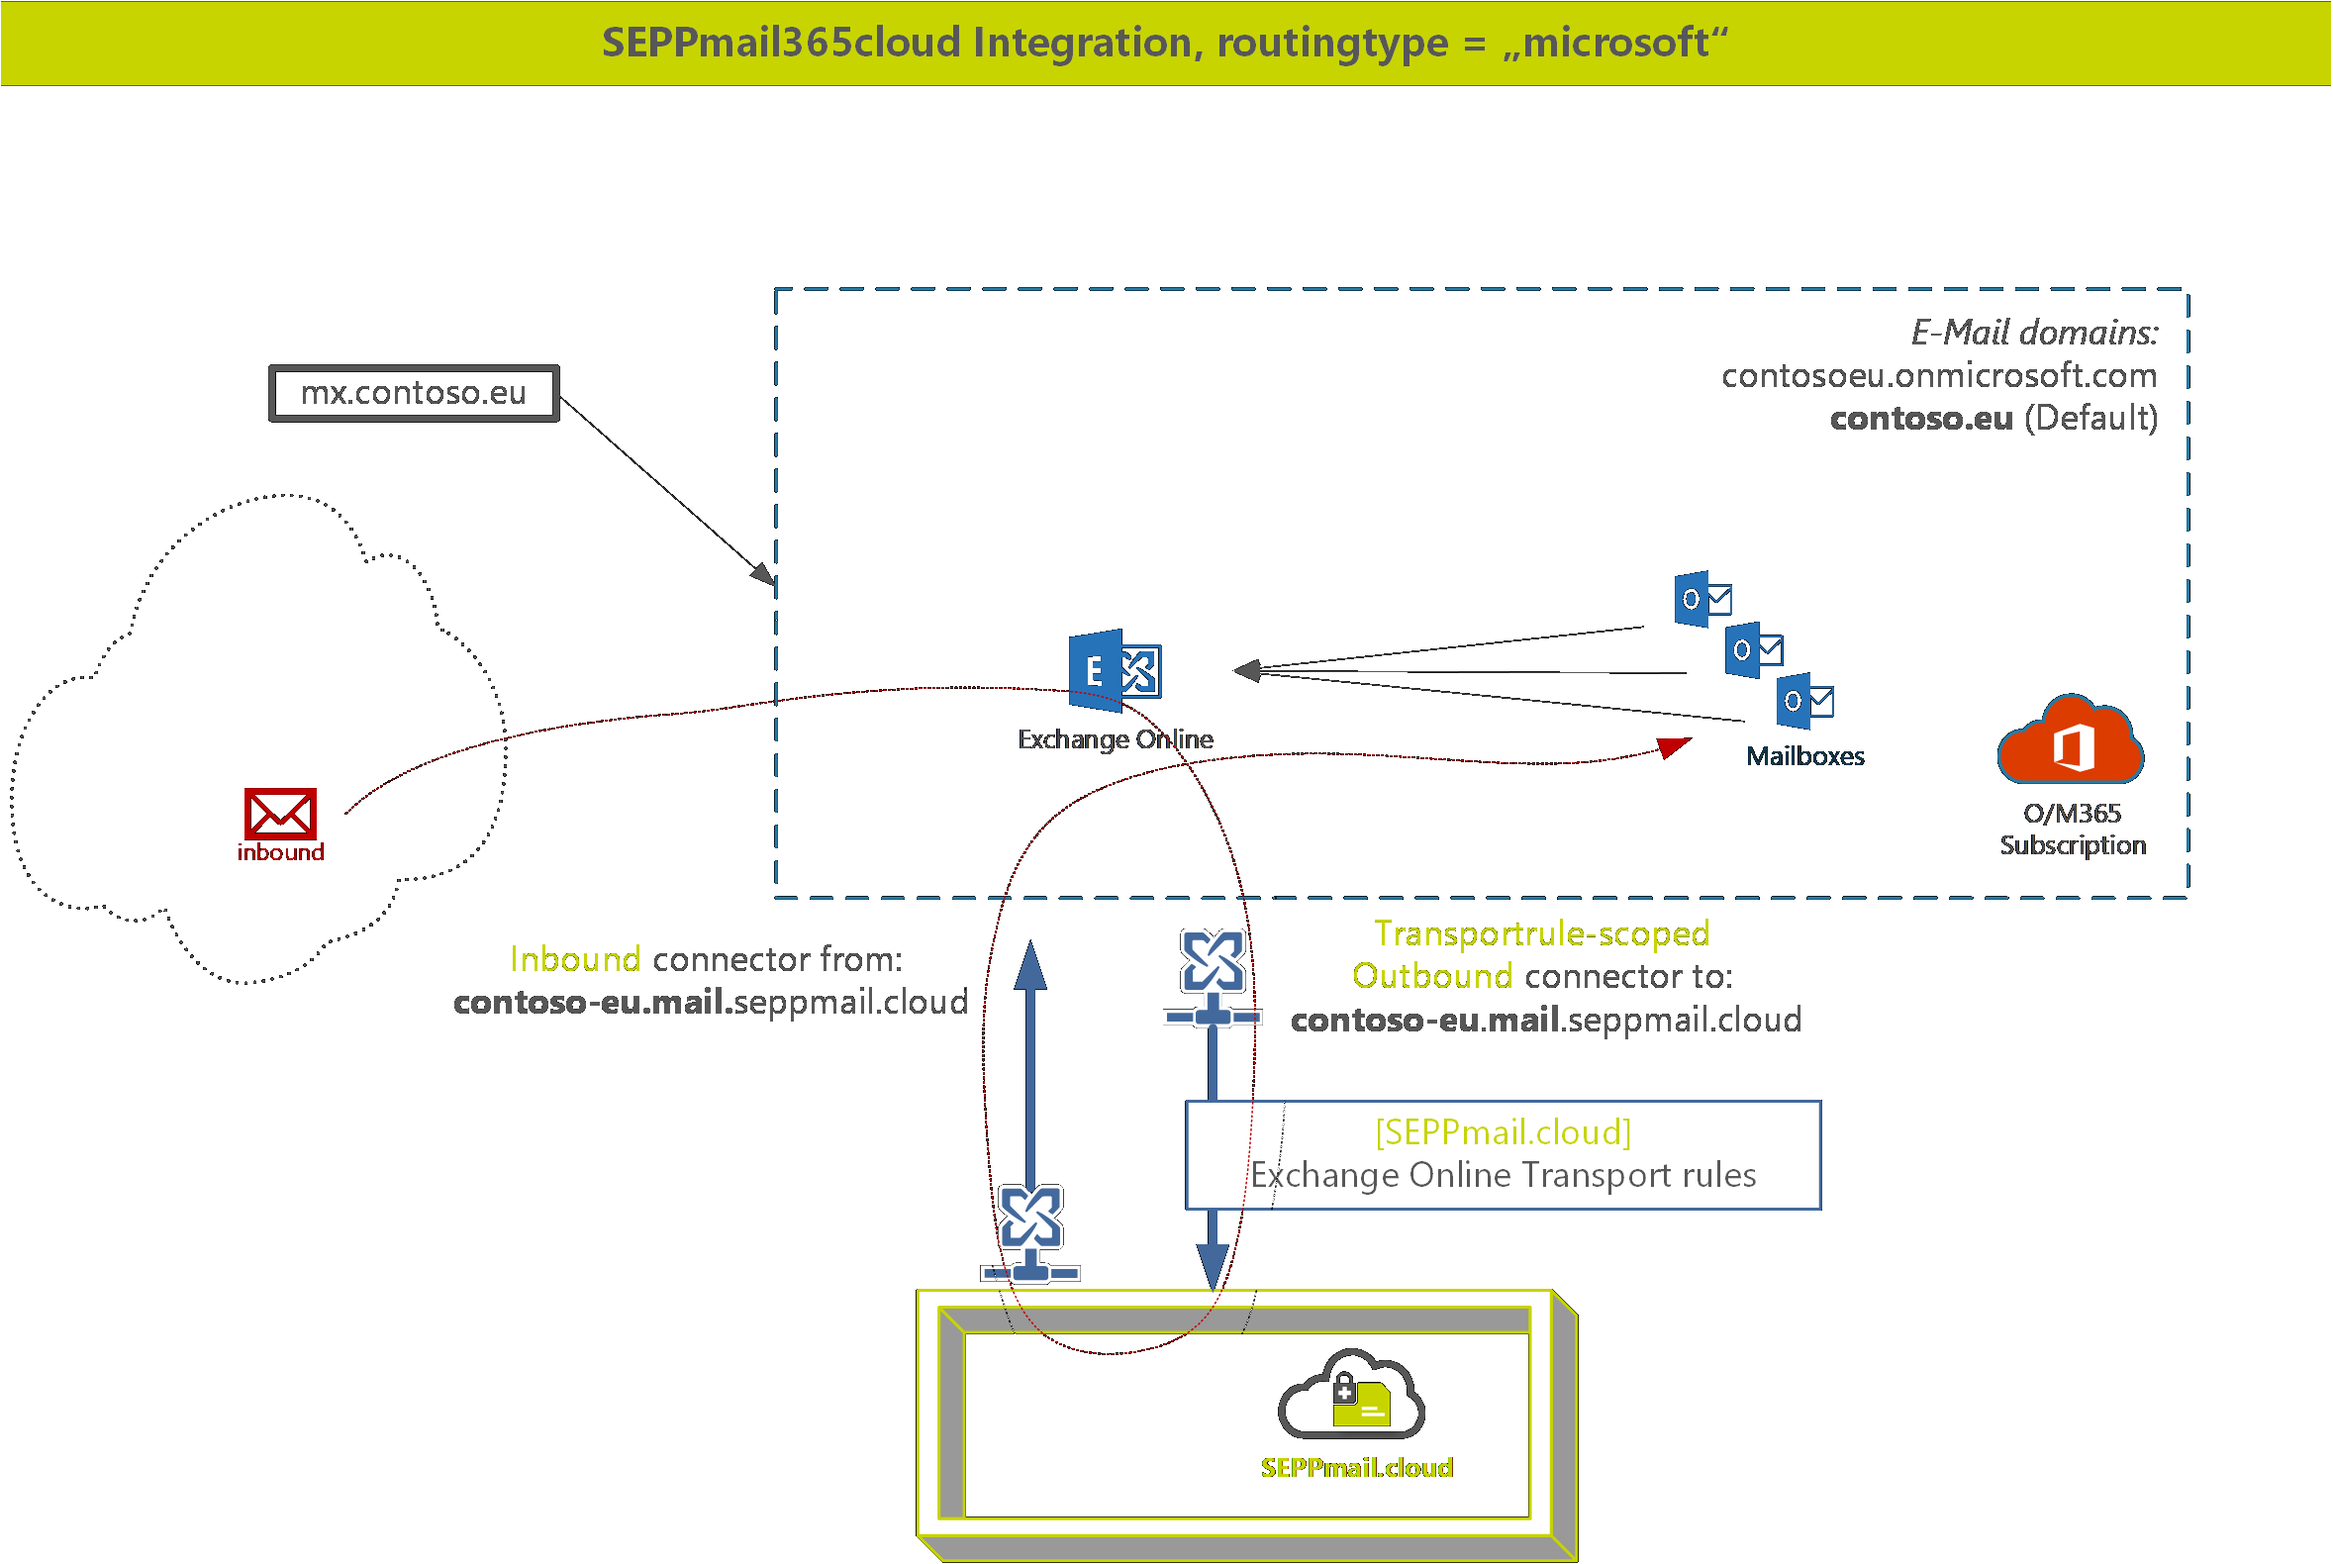
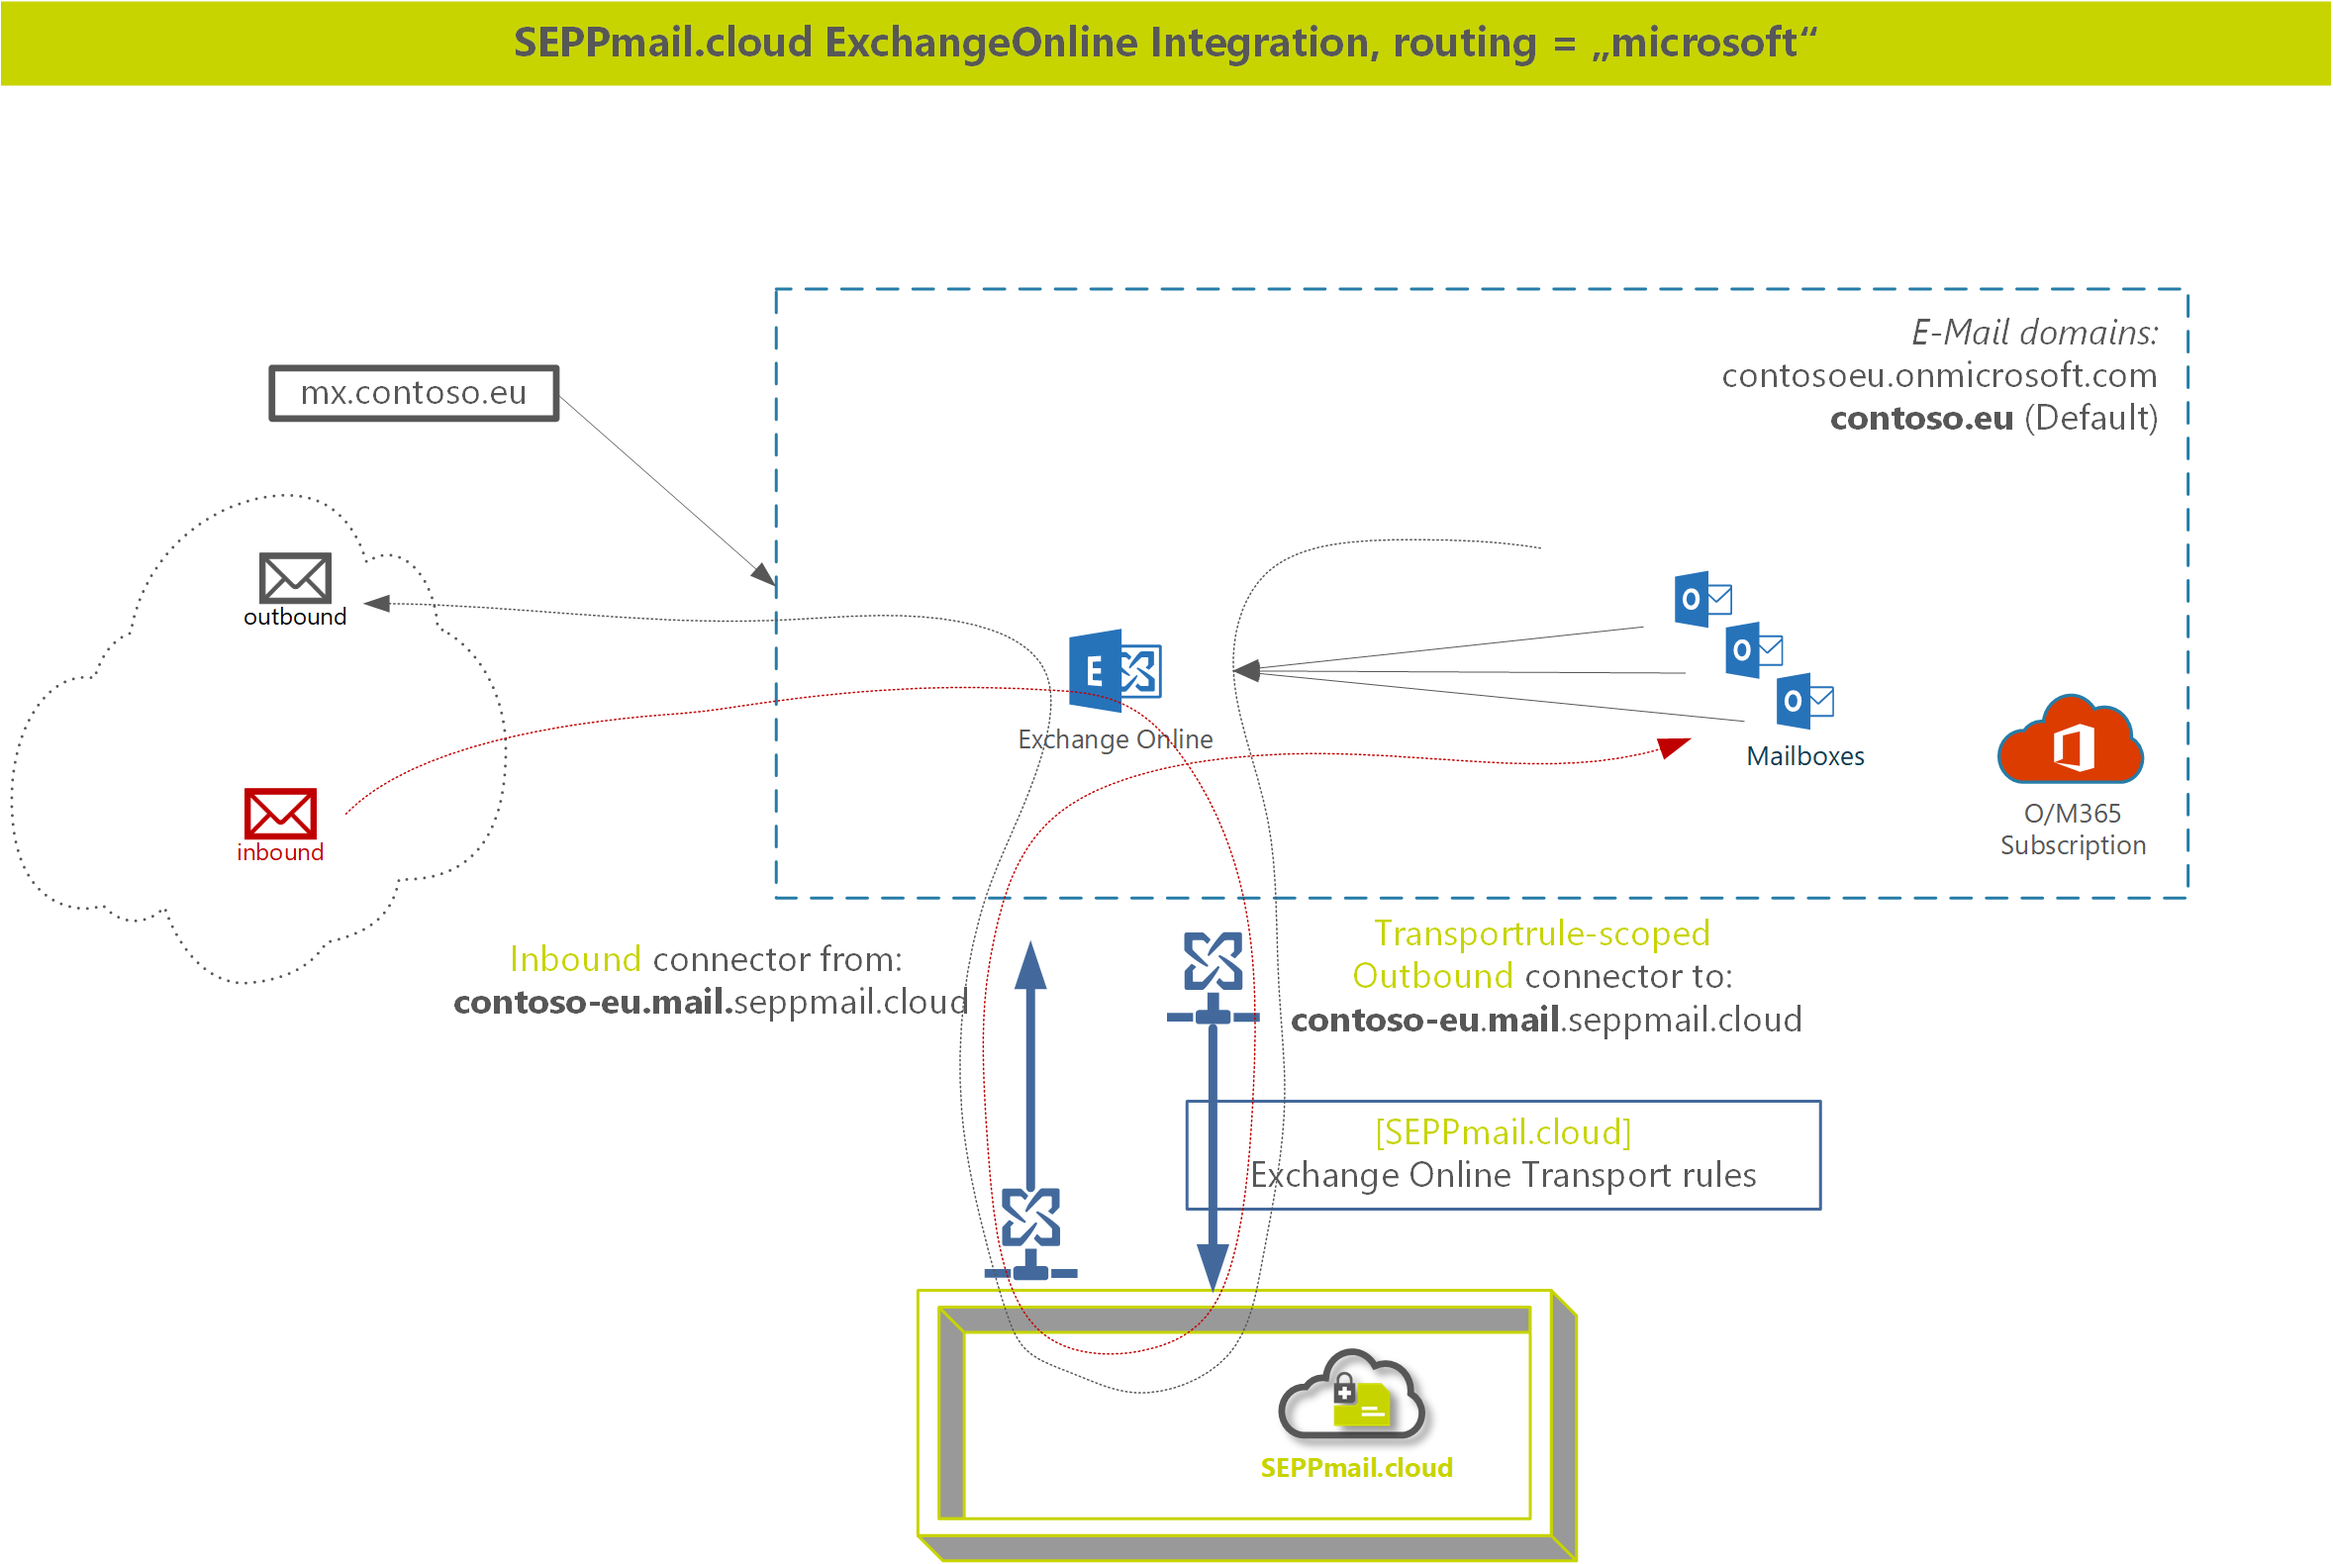
0.8.1 RC

diff --git a/README.md b/README.md
@@ -1,5 +1,6 @@
 - [The SEPPmail365cloud PowerShell Module README.MD](#the-seppmail365cloud-powershell-module-readmemd)
   - [Introduction](#introduction)
+  - [Latest Changes](#latest-changes)
   - [Prerequisites](#prerequisites)
   - [Security](#security)
   - [Module Installation](#module-installation)
@@ -15,13 +16,18 @@
     - [Routingtype: seppmail](#routingtype-seppmail)
     - [Routingtype: microsoft](#routingtype-microsoft)
   - [Review the changes](#review-the-changes)
+  - [Test your Mailflow](#test-your-mailflow)
 
 # The SEPPmail365cloud PowerShell Module README.MD
 
 ## Introduction
 
-The SEPPmail365cloud PowerShell module is a multi-platform PowerShell module, intended to integrate Exchange Online into the seppmail.cloud.
+The SEPPmail365cloud PowerShell module is a multi-platform PowerShell module, intended to integrate Exchange Online into the SEPPmail.cloud.
 The module requires you to connect to your Exchange Online environment and creates all necessary connectors and rules, based on the mail-routing type and region.
+
+## Latest Changes
+
+Changes in the module versions are documented in ![CHANGELOG.md](./CHANGELOG.md)
 
 ## Prerequisites
 
@@ -29,7 +35,7 @@ The module requires *PowerShell Core*, mimimum version 7.2.1 and was tested on W
 
 PowerShell Core on Linux should work as well, but has not been intensively tested so far.
 
->Note: *Windows PowerShell is not supported!*. To run the module from Windows, install PowerShell Core on your Windows machine, using the Microsoft Store on your client or go to [Github](https://github.com/powershell/powershell) for installation details.
+>Note: *Windows PowerShell (5.1) is not supported!* To run the module from Windows, install PowerShell Core on your Windows machine, using the Microsoft Store on your client or go to [Github](https://github.com/powershell/powershell) for installation details.
 
 ## Security
 
@@ -49,35 +55,34 @@ Install-Module "SEPPmail365cloud" -scope Currentuser
 
 In addition to the main module you need to add PSWSMan which adds WSMan client libraries to Linux and macOS for remote connectivity to Exchange Online.
 
-*Do this OUTSIDE Powershell in the apropriate shell (bash, or similar)!*
+>Note: *Do this OUTSIDE Powershell in the apropriate shell (bash, or similar)!*
 
 ```bash
 sudo pwsh -command 'Install-Module PSWSMan' #Read more on this here https://github.com/jborean93/omi
 sudo pwsh -Command 'Install-WSMan'
 ```
 
-Further information on connecting to Exchange Online and make the module work can be found on our GitHub reporisory for the other PowerShell Module [SEPPmail365 module documentation](https://github.com/seppmail/SEPPmail365#module-installation).
+**Further information** on connecting to Exchange Online and bring the module up and running can be found on our GitHub reporisory for the other PowerShell Module [SEPPmail365 module documentation](https://github.com/seppmail/SEPPmail365#module-installation).
 
 ## Routing modes
 
 When integrationg your Exchange online environment with seppmail.cloud, you have to decide between two e-Mail routing modes to microsoft. We either set the mx-record to *seppmail.cloud* or leave it at *Microsoft*. Customers routing e-Mails via seppmail.cloud benefit from our outstanding e-Mail filter which prevents spam and unwanted software flowing into your network via e-mail.
 
-If you leave the mx-record at microsoft you cannot use the seppmail.cloud mailfilter, but for sure our encryption processing possibilities.
+>Note: If you leave the mx-record at microsoft you cannot use the seppmail.cloud mailfilter, but for sure our encryption processing possibilities.
 
 Now lets look into the 2 different modes.
 
 ### Routing mode "seppmail*
 
-In this case, inbound e-Mails flow to the seppmail.cloud, are treated there and then flow to microsoft via connectors. Same is outbound, the mails simply pass the seppmail.cloud before leaving to the internet.
+In this case, the **mx-record of the e-Mail domain is set to SEPPmail**. Inbound e-Mails flow to the seppmail.cloud, are scanned, treated cryptographically and then flow to Microsoft via connectors. Same is outbound, the mails simply pass the seppmail.cloud before leaving to the internet.
 
 ![seppmail](./Visuals/seppmail365cloud-mxseppmail.png)
 
 ### Routing mode "microsoft"
 
-This routing mode is similar to the way you would integrate any SEPPmail Appliance (self hosted or MSP). E-mails flow to Microsoft, and are looped through SEPPmail based on the need for cryptographic treatment.
+This routing mode is similar to the way you would integrate any SEPPmail Appliance (self hosted or MSP) with ExchangeOnline. E-mails flow to Microsoft, and are looped through SEPPmail based on the need for cryptographic treatment. No SEPPmail Virus or Spamfilter is possible in this configuration.
 
 ![microsoft](./Visuals/seppmail365cloud-mxmicrosoft.png)
-
 
 ## Using the seppmail365cloud PowerShell module
 
@@ -100,17 +105,23 @@ To do this use our OTHER PS-Module **SEPPmail365**. Find info on [backup and rem
 
 ## Setup the integration
 
-After you are sure that your Exchange Online environment is prepared for the cloud setup we can start with the integration.
+After you are sure that your Exchange Online environment is prepared and you have received a **welcome E-Mail** from SEPPmail, you can start with the integration.
+
+You need to know 3 input values to run the CmdLets.
+
+- **maildomain** (the e-Mail domain of your Exchange Online environement that has been configured in the seppmail.cloud)
+- **routing** (either "seppmail" or "microsoft", read above for details)
+- **region** (the geographical region of the SEPPmail.cloud infrastructure)
+
+You need to setup inbound and oubound-connectors and transport rules, so run the two commands as explained below.
 
 ### Routingtype: seppmail
 
-
-
 ```powershell
 New-SC365Connectors -maildomain 'contoso.eu' -routing 'seppmail' -region 'ch'
+
+# Currently no rules are needed for routingtype SEPPmail!
 ```
-
-
 
 ### Routingtype: microsoft
 
@@ -124,4 +135,9 @@ New-SC365Rules -routing 'microsoft'
 
 ```Get-Inboundconnector``` and ```Get-OutboundConnector``` will show the installed mail routing connectors, and ```Get-Transportrule``` CmdLet will give you all information about transport rules.
 
---- End of document ---
+
+## Test your Mailflow
+
+Send an e-Mail from inside-out and outside-in to see if the mailflow is working.
+
+<p style="text-align: center;">--- End of document ---</p>

diff --git a/CHANGELOG.md b/CHANGELOG.md
@@ -1,0 +1,5 @@
+# CHanges in the PowerShell Module SEPPmail365cloud
+
+0.8.1   Fix mistake in Connector config, updated visuals and README.md
+
+0.8.0   Initial Release
